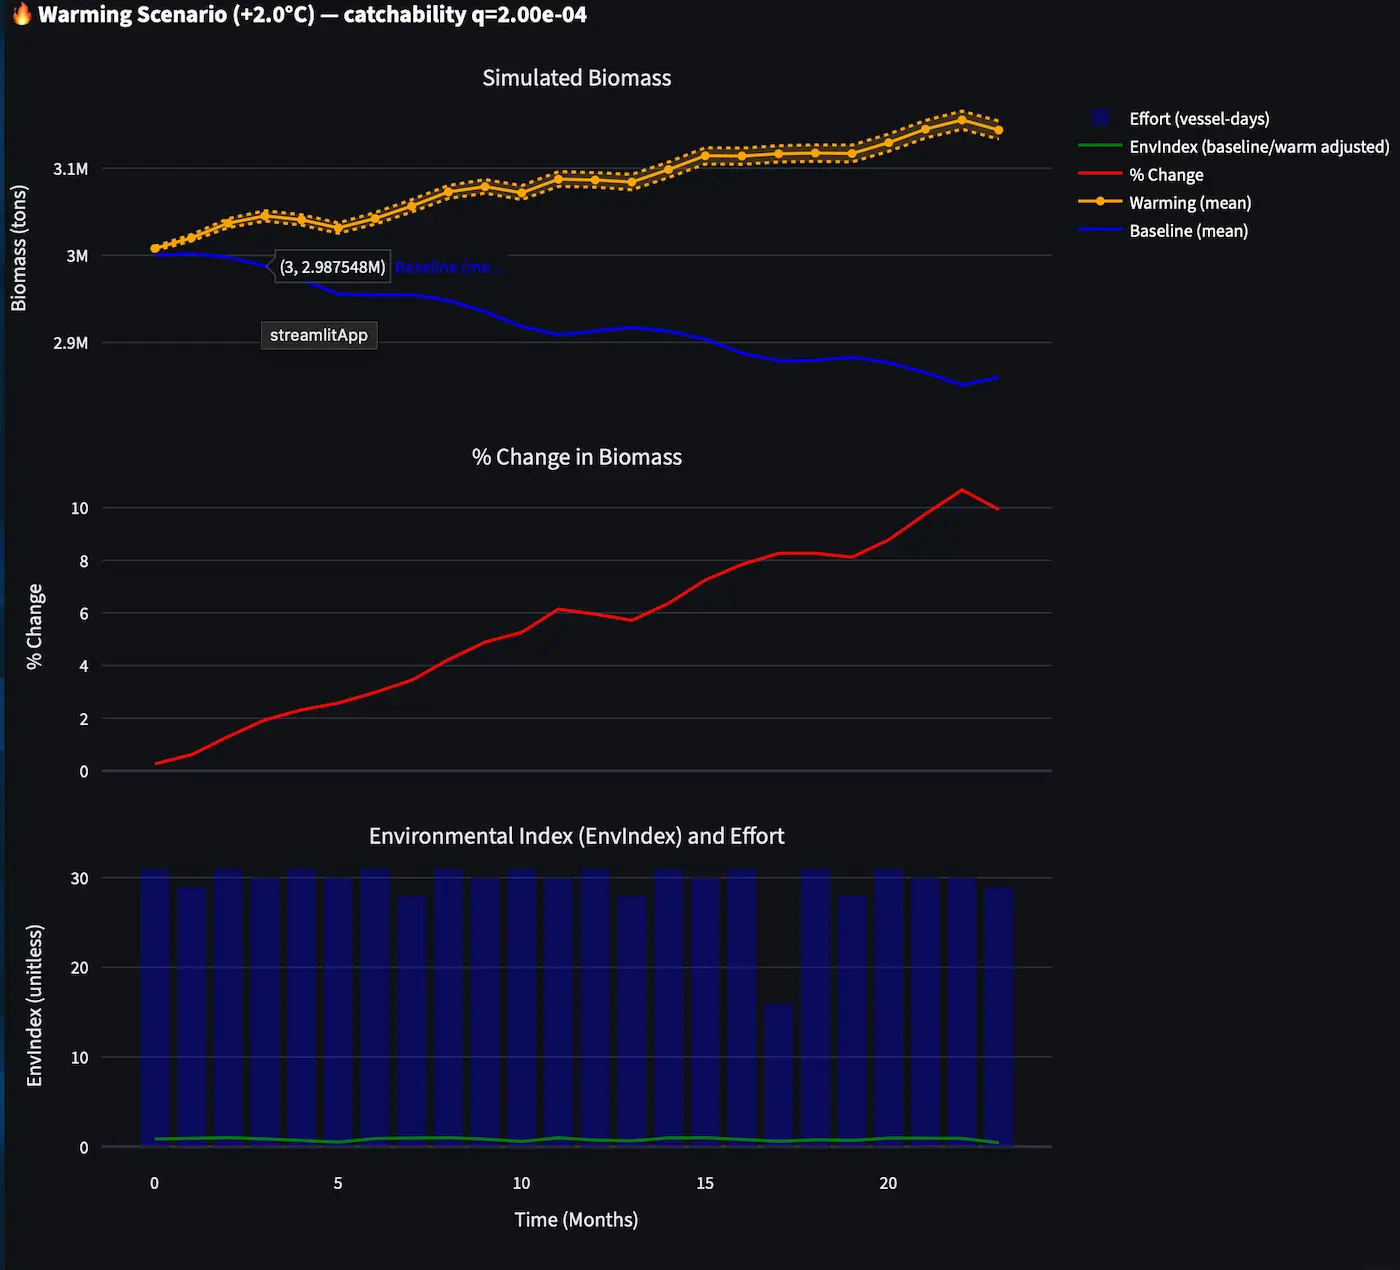
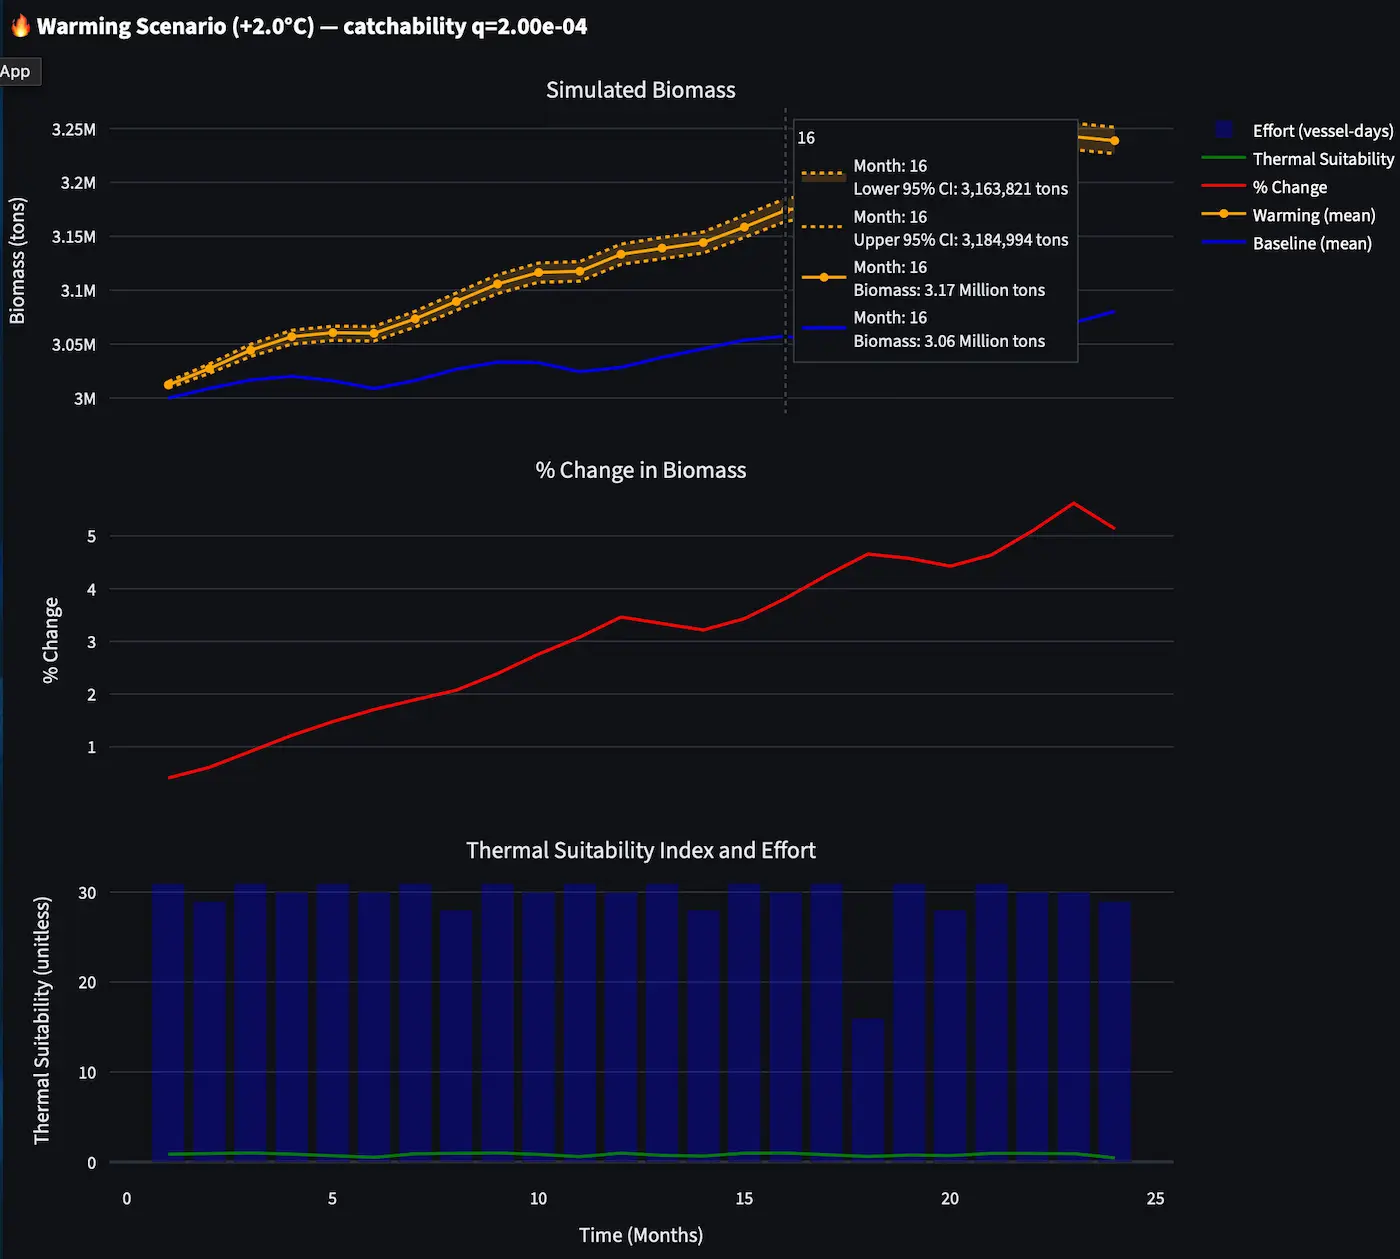
RepoContent.js

diff --git a/src/RepoContent.js b/src/RepoContent.js
@@ -105,81 +105,96 @@ export const RepoContent = {
     title: "SquidStock",
     tagline: "Fisheries Analytics & Predictive Insight",
 
-    overview: "Separates true biomass dynamics from misleading CPUE signals under climate variability.",
+    overview: "Explores how environmental forcing, biomass dynamics, fishing pressure, and CPUE signals interact under baseline and warming scenarios.",
 
-    usedFor: "Used to detect true stock trends and forecast climate-driven shifts in fishery abundance.",
+    usedFor: "Used to test biomass response under climate scenarios, evaluate CPUE reliability, and support risk-aware fisheries decision-making.",
 
     technical: [
       "CPUE standardisation across multi-year fisheries datasets",
-      "Mechanistic biomass simulation under +2°C climate scenarios",
-      "Python + Streamlit predictive modelling pipeline",
-      "Hybrid ecological + ML forecasting framework"
+      "Mechanistic biomass simulation under baseline and +2°C warming scenarios",
+      "Temperature-dependent growth, productivity forcing, and catchability-based harvest modelling",
+      "Python + Streamlit interactive decision-support pipeline",
+      "Hybrid ecological + predictive fisheries analytics framework"
     ],
 
-    scenario: "Simulates squid population response under warming conditions to evaluate how reliably CPUE reflects true biomass dynamics.",
+    scenario: "Simulates squid population response under baseline and warming conditions, then compares CPUE against selected biomass scenarios to assess whether catch rates reliably reflect stock dynamics.",
 
     plots: [
       {
         title: "Biomass Under Warming Scenarios",
         description:
-          "Warming produces ~10% biomass increase under simplified ecological assumptions, likely representing an upper-bound response.",
+          "Compares baseline biomass against a +2°C warming scenario. The warming line sits slightly above baseline, showing a modest positive biomass response, while the percentage-change panel shows the stock ending around 5% higher under current model assumptions.",
         src: biomassScenarios
       },
       {
         title: "Temperature-Dependent Growth",
         description:
-          "Growth rate varies with thermal optimum (r ≈ 0.01–0.03), directly influencing biomass stability.",
+          "Shows simulated biomass alongside the temperature-dependent growth rate (rₜ). Biomass increases gradually while rₜ fluctuates through time, indicating that temperatures remain reasonably close to the modelled thermal optimum and support positive growth.",
         src: tempGrowth
       },
       {
         title: "CPUE vs Biomass",
         description:
-          "Weak correlation (r ≈ 0.09) shows CPUE is an unreliable proxy for true population size under environmental variability.",
+          "Shows that CPUE does not reliably follow simulated biomass. In the current scenario, biomass trends upward while CPUE fluctuates and can move in the opposite direction, producing a weak to moderate negative relationship and warning that catch rates alone may misrepresent stock status.",
         src: cpueScatter
       }
     ],
 
     insights: [
-      "Temperature is the primary driver of biomass variation in the model.",
-      "CPUE is an unreliable proxy for true population size.",
-      "Warming scenarios likely overestimate real-world growth."
+      "SST influences biomass through a temperature-dependent growth response.",
+      "Chlorophyll-a acts as a productivity modifier rather than being merged directly with temperature into one environmental index.",
+      "CPUE should not be treated as a standalone abundance indicator, especially for mobile and aggregating squid.",
+      "Moderate warming may produce small biomass gains in the model, but real-world benefits may be overestimated because migration, upwelling, and spatial habitat shifts are simplified."
     ],
 
     image: placeholderSquidStock,
     modules: [
       {
         name: "Decision Context",
-        detail: "Helps fisheries managers and policymakers understand stock variability, environmental sensitivity, and reliability of CPUE as an abundance indicator."
+        detail: "Helps fisheries managers and policymakers understand stock variability, environmental sensitivity, harvest pressure, and the reliability of CPUE as an abundance indicator."
       },
       {
         name: "System Design",
-        detail: "Combines mechanistic biomass simulation with standardized and predictive CPUE workflows, linking environmental signals to operational fisheries decisions."
+        detail: "Combines mechanistic biomass simulation with standardized and predictive CPUE workflows, separating thermal suitability, productivity forcing, and fishing pressure to support clearer scenario interpretation."
       },
       {
         name: "Decision Impact",
-        detail: "Enables managers to identify when CPUE may misrepresent stock abundance, evaluate warming impacts on biomass, and make scenario-informed decisions for quota setting, monitoring, and climate-risk planning."
+        detail: "Enables users to compare baseline and warming biomass scenarios, identify when CPUE may misrepresent abundance, and stress-test climate-risk assumptions before making monitoring or quota decisions."
       }
     ],
+
     links: [
       {
-        label: "Biomass Simulator & Estimation Module",   // consultancy name
-        subLabel: "Ocean Dynamics",                // your original name
+        label: "Biomass Simulator & Estimation Module",
+        subLabel: "Ocean Dynamics",
         url: "https://squidstock-ocean-dynamics.streamlit.app",
-        description: "Flagship module: simulates squid biomass dynamics under baseline and warming scenarios, quantifying how temperature-driven growth and fishing pressure interact to shape stock trajectories and management risk.",
+        description: "Flagship module: simulates squid biomass under baseline and warming scenarios, quantifying how temperature-dependent growth, productivity conditions, catchability, and fishing effort interact to shape stock trajectories and decision risk.",
         flagship: true
       },
 
       {
         label: "View Full Project & Data Suite",
         url: "https://github.com/Euchie23/SquidStock/",
-        description: "Access the other modules covering Temporal CPUE analysis, CPUE Standardization and Prediction, and Biomass Simulations under Warming Scenarios"
+        description: "Access the full SquidStock suite covering Temporal Catch Analysis, CPUE Standardization and Prediction, and Biomass Simulation under Warming Scenarios."
       }
     ],
 
     sideLinks: [
-      { label: "Technical Case Study", url: "https://github.com/Euchie23/SquidStock/blob/main/Case_Study.md", description: "Explore the detailed project workflow and analysis approach." },
-      { label: "Notebooks & Methods", url: "https://github.com/Euchie23/SquidStock/tree/main/notebooks/", description: "Review the analytical notebooks and modeling methods used." },
-      { label: "Ask Your Questions", url: "mailto:euchiejnpierre@gmail.com", description: "Reach out for clarifications or additional insights." }
+      {
+        label: "Technical Case Study",
+        url: "https://github.com/Euchie23/SquidStock/blob/main/Case_Study.md",
+        description: "Explore the detailed project workflow, assumptions, and analysis approach."
+      },
+      {
+        label: "Notebooks & Methods",
+        url: "https://github.com/Euchie23/SquidStock/tree/main/notebooks/",
+        description: "Review the analytical notebooks and modelling methods used."
+      },
+      {
+        label: "Ask Your Questions",
+        url: "mailto:euchiejnpierre@gmail.com",
+        description: "Reach out for clarifications or additional insights."
+      }
     ]
   },
 
